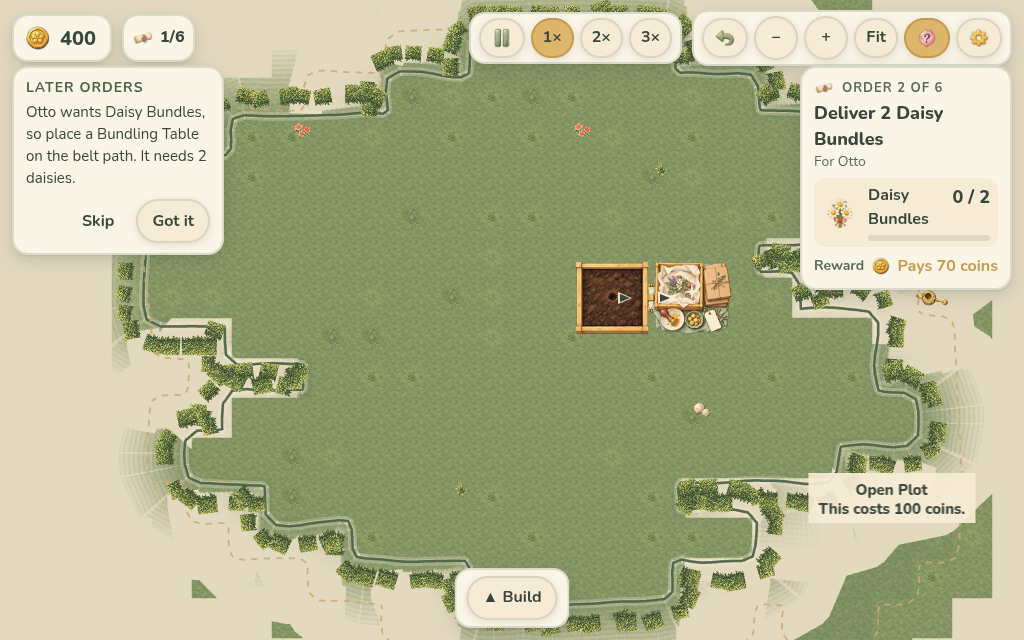
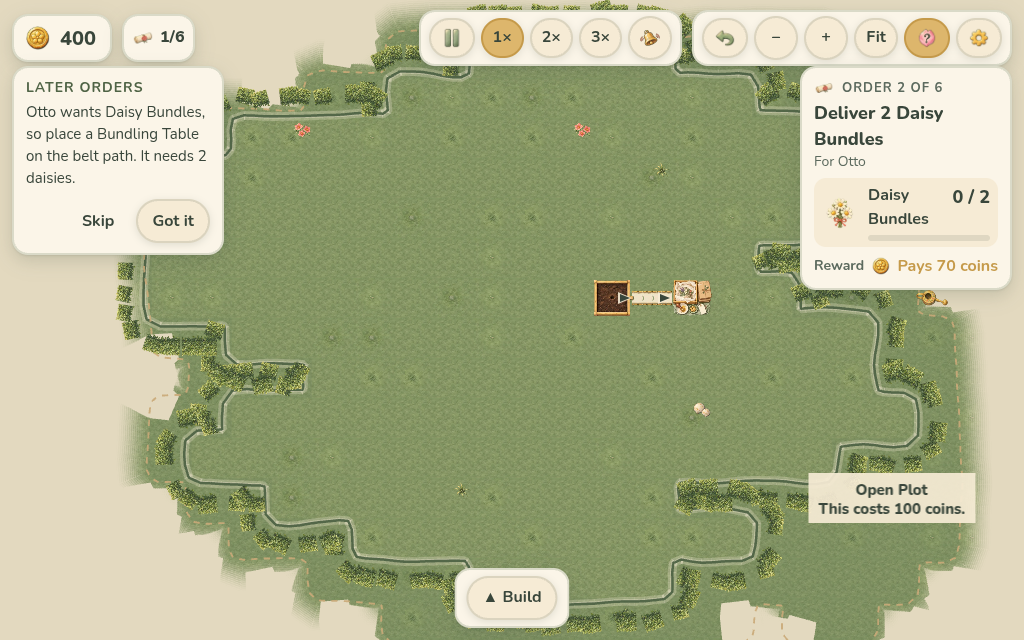
Controls list: M for sound; refresh producer screenshots after the belt, size and sound fixes

diff --git a/src/ui/strings.ts b/src/ui/strings.ts
@@ -224,6 +224,7 @@ export const EXTRA_FALLBACK = {
     ['= and -', 'Zoom'],
     ['Home', 'Fit the garden'],
     ['H', 'Tips'],
+    ['M', 'Sound on or off'],
   ] as const,
   sound: {
     musicVolume: 'Music volume',
